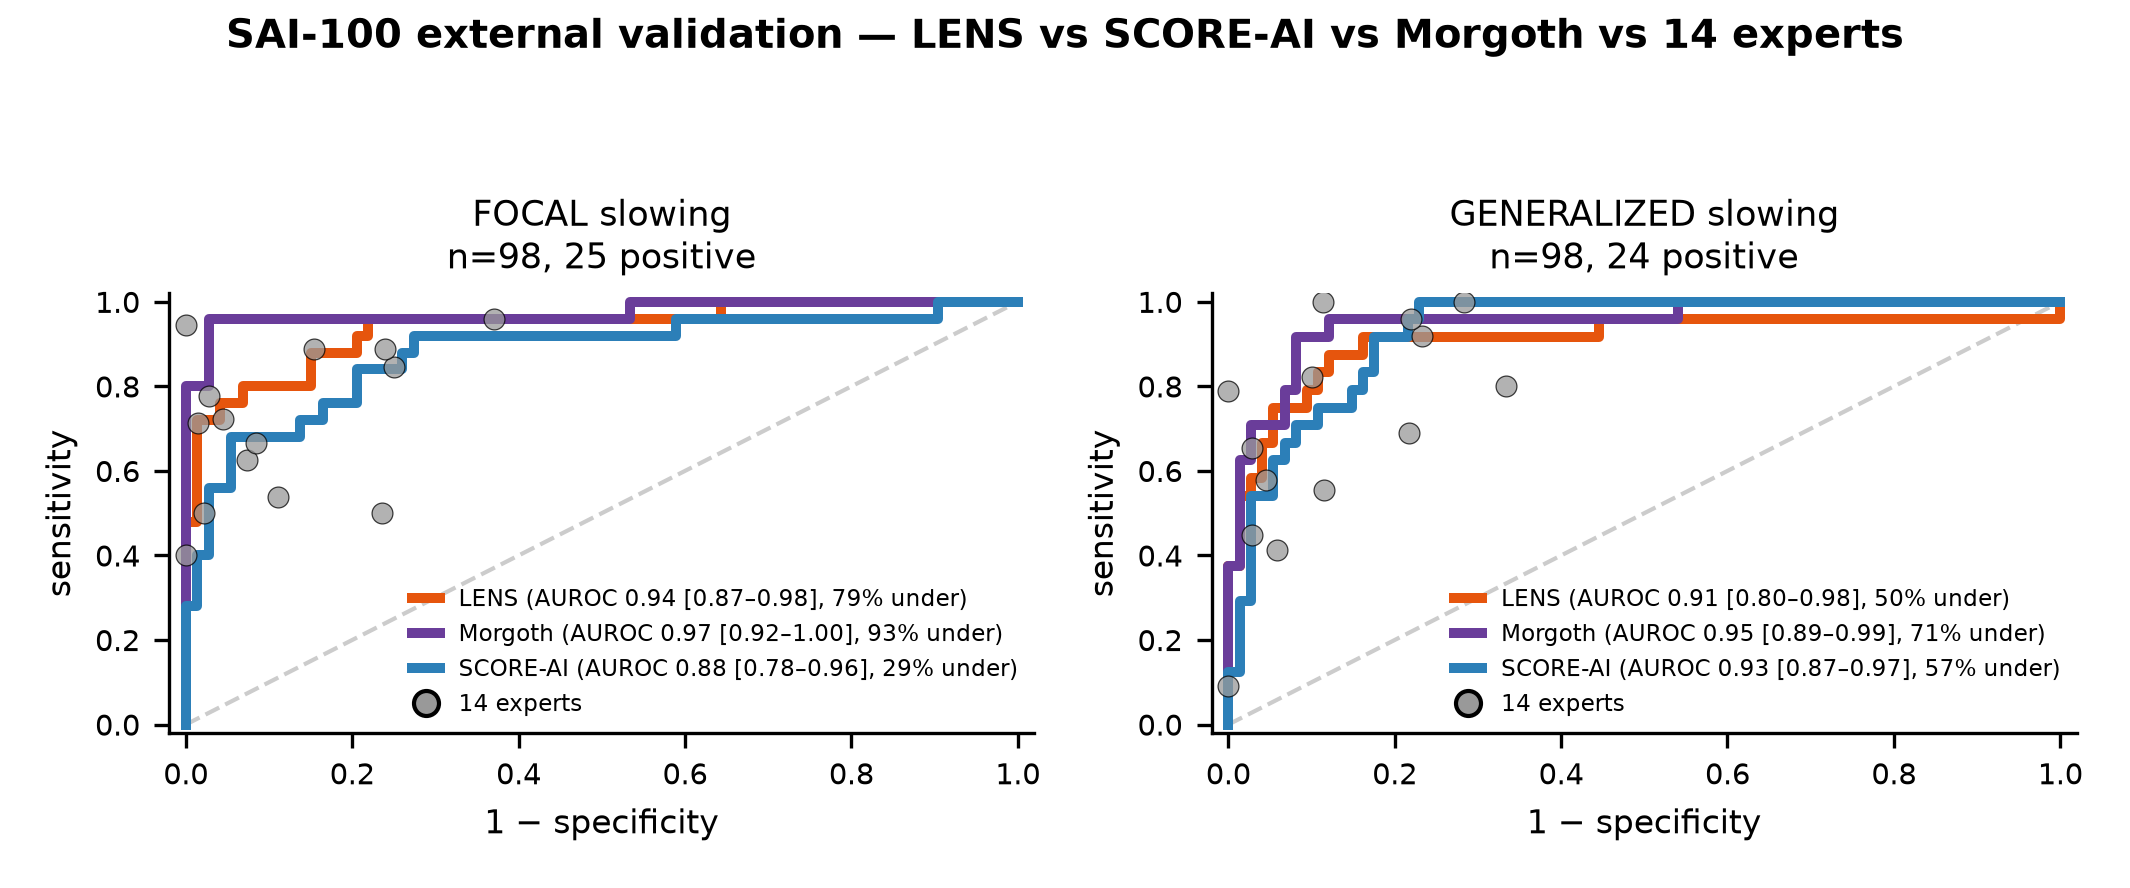
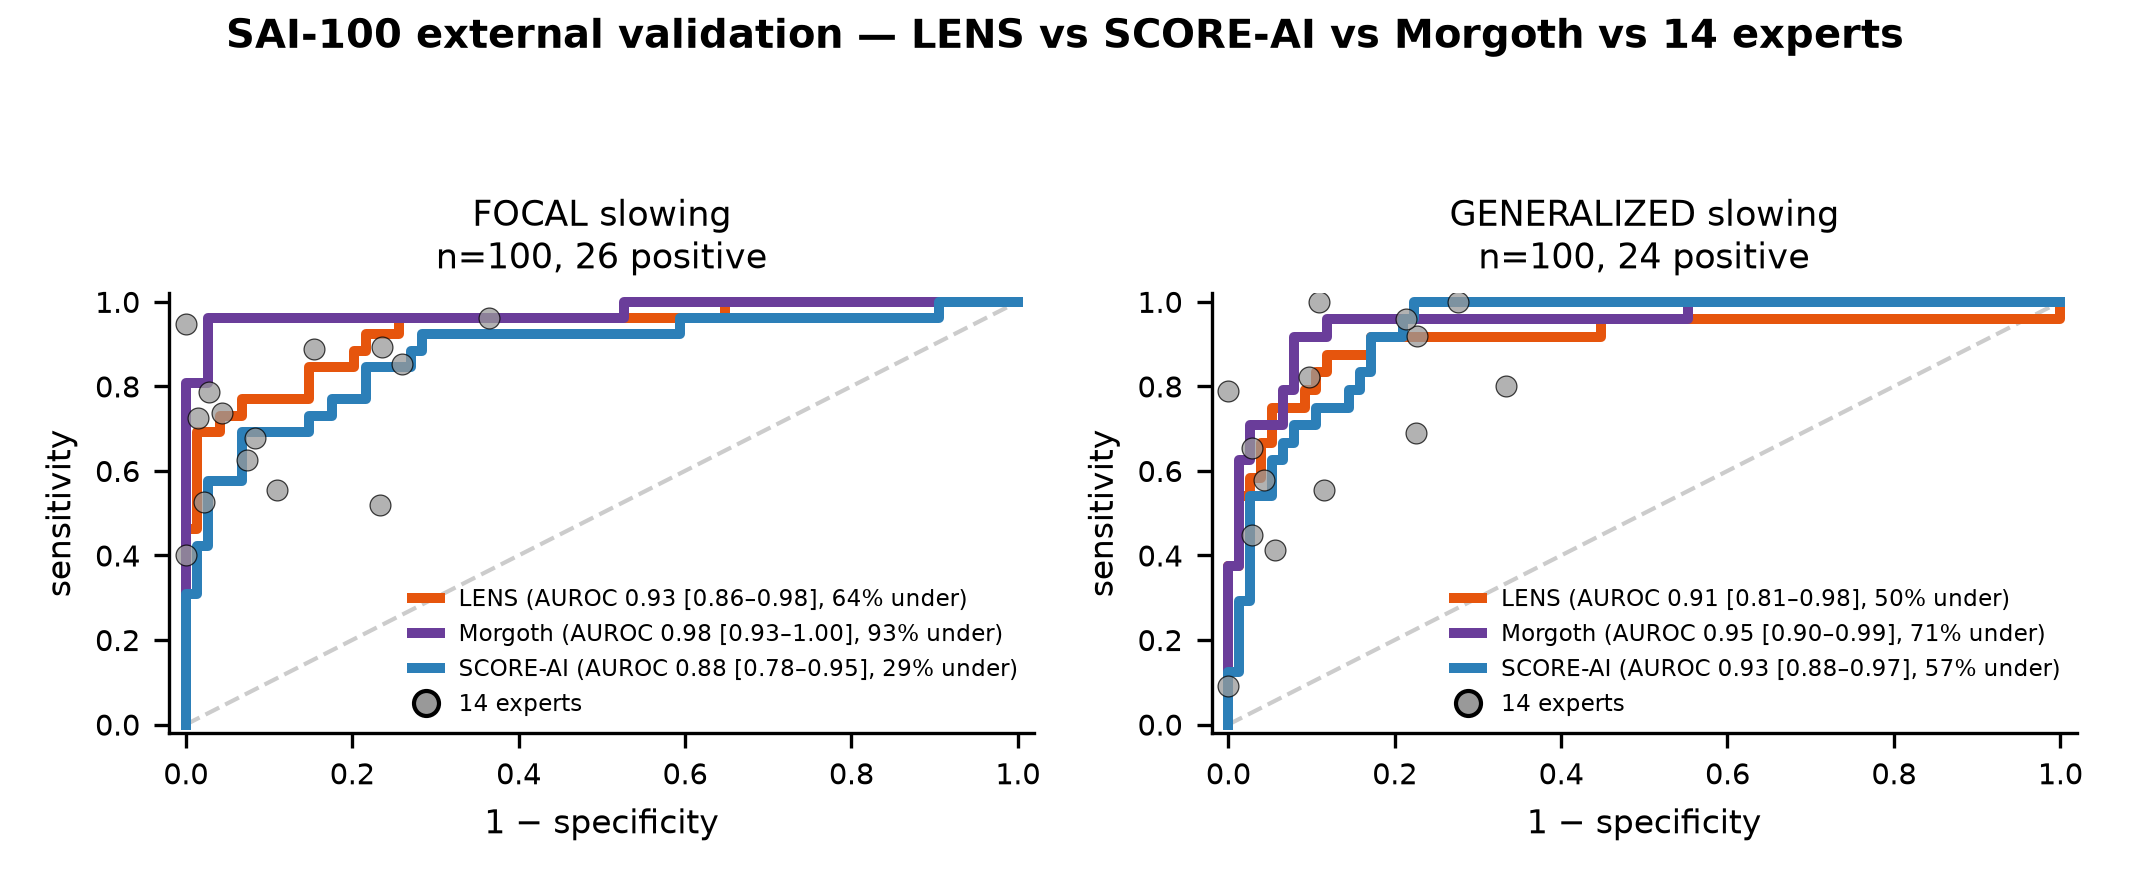
SAI-100 is now n=100: the two "unreadable" EDFs ingest fine
Beniczky re-supplied ID-060 and ID-086 after we reported them as unreadable. They
are not unreadable: both load with our own loader, giving a full 19-channel
montage with 100% finite samples (ID-060 61 min at 256 Hz, ID-086 240 min at
500 Hz), the modern T7/T8/P7/P8 names already being aliased to our canonical set.

The failure was ours, and getting them through took four environmental fixes,
all of the same family as the old SANDOR_DIR Box path:

  * MORGOTH2_DIR defaulted to ~/GithubRepos/morgoth2; the repo is under
    ~/Desktop/GithubRepos, so staging failed as if the checkpoint were missing.
    Now resolved by searching the plausible roots for checkpoints/ss_hm_1.pth.
  * WORK was hardcoded to another session's scratchpad on another machine
    (/private/tmp/claude-501/-Users-mwestover-.../543fcf0f-.../). It happened to
    be writable, so staging failed deep inside the model call rather than at a
    clear missing-path error. Now honours SANDOR_WORK, else local scratch.
  * four morgoth2 dependencies were absent from the venv: tensorboardX, mat73,
    hdf5storage, einops.

Both recordings now stage and featurize (SB_060: 262 segments, age 88;
SB_086: 1028 segments, age 21), giving 100 SB partitions.

Re-running the validation on all 100 moves the numbers, and not all in our
favour. Focal LENS falls from 0.938 [0.870, 0.985] to 0.930 [0.862, 0.979], and
the experts-under-curve statistic from 79% to 64% -- one of the two new
[…]

diff --git a/scripts/sandor100_stage_extract.py b/scripts/sandor100_stage_extract.py
@@ -16,7 +16,19 @@ from pathlib import Path
 import numpy as np, pandas as pd
 
 # --- Morgoth env (must be set BEFORE importing fleet.ingest, which reads them at import) ---
-os.environ.setdefault("MORGOTH2_DIR", os.path.expanduser("~/GithubRepos/morgoth2"))
+# The repo lives under ~/Desktop/GithubRepos on this machine; the old default pointed at
+# ~/GithubRepos/morgoth2, which does not exist, so staging failed with a missing-checkpoint error that
+# looked like the model was unavailable rather than mislocated. Search the plausible roots.
+def _morgoth_dir():
+    from pathlib import Path as _P
+    for c in (_P.home() / "Desktop/GithubRepos/morgoth2", _P.home() / "GithubRepos/morgoth2",
+              _P("../morgoth2").resolve()):
+        if (c / "checkpoints" / "ss_hm_1.pth").exists():
+            return str(c)
+    return str(_P.home() / "GithubRepos/morgoth2")
+
+
+os.environ.setdefault("MORGOTH2_DIR", _morgoth_dir())
 os.environ.setdefault("PILOT_VENV", sys.executable)
 os.environ.setdefault("MORGOTH_DEVICE", "mps")
 os.environ.setdefault("MORGOTH_SHIMS", os.path.abspath("scripts/shims"))
@@ -66,8 +78,11 @@ SB_DIR = Path(os.environ.get("SANDOR_DIR") or
               _resolve_sandor_dir())
 EDF = SB_DIR / "EDF"
 SM = Path("data/derived/segment_master")
-WORK = Path("/private/tmp/claude-501/-Users-mwestover-GithubRepos-morgoth-slowing-growth-curves/"
-            "543fcf0f-2e91-44f4-9ca9-c301964982e6/scratchpad/sandor100/work")
+# Scratch space for the Morgoth staging hand-off. This was hardcoded to one session's scratchpad on another
+# machine ("/private/tmp/claude-501/-Users-mwestover-.../543fcf0f-.../scratchpad/sandor100/work"), which is
+# the same defect as the old SANDOR_DIR default: it happens to be writable, so staging fails deep inside the
+# model call rather than at a clear "path does not exist". Honour SANDOR_WORK, else use a local scratch dir.
+WORK = Path(os.environ.get("SANDOR_WORK") or (Path(tempfile.gettempdir()) / "sandor100_work"))
 
 
 def stage_one(eid, data, chs, fs, n_seg, centers):

diff --git a/docs/manuscript_draft.md b/docs/manuscript_draft.md
@@ -202,9 +202,9 @@ A single model trained on report data (patient-stratified, \~16k recordings) whe
 
 ### 3.4b Detection --- external validation on SAI-100 (SCORE-AI and 14 experts)
 
-The **second external benchmark, SAI-100**, tests transfer across countries and to an independent scoring system: 100 routine scalp EEGs from the SCORE-AI validation study \[35\], drawn from three hospitals in two countries, with SCORE-AI, the Morgoth gate and 14 expert calls available per recording and no overlap with training or ON-100. The unchanged pipeline ran end-to-end on 98/100 (**Supplementary S17**).
+The **second external benchmark, SAI-100**, tests transfer across countries and to an independent scoring system: 100 routine scalp EEGs from the SCORE-AI validation study \[35\], drawn from three hospitals in two countries, with SCORE-AI, the Morgoth gate and 14 expert calls available per recording and no overlap with training or ON-100. The unchanged pipeline ran end-to-end on all **100** recordings (**Supplementary S17**).
 
-Focal slowing is detected well by all three learned methods (**Figure 3**). LENS reached AUROC **0.938** \[0.870, 0.985\], placing 79% of the individual experts under its ROC curve, against SCORE-AI --- a purpose-built EEG classifier --- at 0.878 \[0.783, 0.955\] (29% under) and the Morgoth foundation-model gate at 0.974 \[0.923, 1.000\] (93% under). For generalized slowing LENS reached 0.908 \[0.803, 0.980\] with 50% of experts under, against SCORE-AI 0.930 \[0.874, 0.971\] (57%) and Morgoth 0.951 \[0.892, 0.991\] (71%). **On this cohort none of these differences is statistically supported.** A paired bootstrap --- the same 4,000 recording-level resamples scoring both models, so the interval is on the difference itself --- puts every comparison's 95% interval across zero: focal LENS − SCORE-AI +0.061 \[−0.036, +0.160\] (p = 0.23), focal LENS − Morgoth −0.037 \[−0.107, +0.024\], generalized LENS − SCORE-AI −0.020 \[−0.122, +0.062\], generalized LENS − Morgoth −0.042 \[−0.151, +0.041\]. With 98 recordings and 25 focal / 24 generalized positives the study is not powered to separate three detectors of this quality, and we therefore claim only that LENS performs comparably to a dedicated EEG classifier and to a foundation-model gate on an unseen cohort, in two countries, with no site-specific refitting. We state the intervals plainly because they bound the claim: on this second external dataset LENS reaches expert-level detection on both axes, but the cohort cannot rank it against SCORE-AI or the gate in either direction. Read together with ON-100, where LENS led on generalized and was level with the gate on focal, the honest summary is that detection transfers to both external datasets while the *ordering* among the three methods is resolved only on ON-100, which is five times larger. Taken together, the two external validations --- **ON-100** (five US centers, 18 experts) and **SAI-100** (three hospitals across two countries, 14 experts, plus SCORE-AI) --- show LENS matching human experts on both axes across institutions, countries, and scoring systems, with no site-specific refitting.
+Focal slowing is detected well by all three learned methods (**Figure 3**). LENS reached AUROC **0.930** \[0.862, 0.979\], placing 64% of the individual experts under its ROC curve, against SCORE-AI --- a purpose-built EEG classifier --- at 0.878 \[0.784, 0.953\] (29% under) and the Morgoth foundation-model gate at 0.976 \[0.928, 1.000\] (93% under). For generalized slowing LENS reached 0.908 \[0.806, 0.979\] with 50% of experts under, against SCORE-AI 0.931 \[0.878, 0.973\] (57%) and Morgoth 0.951 \[0.897, 0.991\] (71%). **On this cohort none of these differences is statistically supported.** A paired bootstrap --- the same 4,000 recording-level resamples scoring both models, so the interval is on the difference itself --- puts every comparison's 95% interval across zero: focal LENS − SCORE-AI +0.052 \[−0.049, +0.156\] (p = 0.30), focal LENS − Morgoth −0.046 \[−0.116, +0.017\], generalized LENS − SCORE-AI −0.022 \[−0.124, +0.061\], generalized LENS − Morgoth −0.042 \[−0.157, +0.040\]. With 100 recordings and 26 focal / 24 generalized positives the study is not powered to separate three detectors of this quality, and we therefore claim only that LENS performs comparably to a dedicated EEG classifier and to a foundation-model gate on an unseen cohort, in two countries, with no site-specific refitting. We state the intervals plainly because they bound the claim: on this second external dataset LENS reaches expert-level detection on both axes, but the cohort cannot rank it against SCORE-AI or the gate in either direction. Read together with ON-100, where LENS led on generalized and was level with the gate on focal, the honest summary is that detection transfers to both external datasets while the *ordering* among the three methods is resolved only on ON-100, which is five times larger. Taken together, the two external validations --- **ON-100** (five US centers, 18 experts) and **SAI-100** (three hospitals across two countries, 14 experts, plus SCORE-AI) --- show LENS matching human experts on both axes across institutions, countries, and scoring systems, with no site-specific refitting.
 
 **The detector reads the deviation field, not the patient's age.** Abnormal recordings are on average
 17 years older than clean-normals, and chronological age is a feature in both heads, so a classifier could

diff --git a/docs/sandor_reply_2.md b/docs/sandor_reply_2.md
@@ -1,0 +1,58 @@
+# Draft reply to Sándor Beniczky (2)
+
+*Subject: RE: Slowing paper — the two EDFs, and the nomogram idea*
+
+---
+
+Dear Sandor,
+
+Thank you for the files and for checking them so carefully — and for the nomogram suggestion, which I want to
+take seriously below.
+
+**The two recordings.** Both read cleanly with our loader: ID-060 gives 61 minutes at 256 Hz and ID-086 four
+hours at 500 Hz, and after mapping the modern electrode names (T7/T8/P7/P8) onto our canonical set both yield
+a full 19-channel montage with no missing data. You were right that there is nothing wrong with them. The
+fault was ours: the failure was on our side of the pipeline, not in your export, and I am sorry we reported
+it to you as "unreadable". Your note about ID-060 was still useful — the non-scalp channels are exactly the
+kind of thing that would have degraded the read had we not restricted to the scalp array, and we do drop them
+automatically. We are re-running the full pipeline on both now and will report SAI-100 on all 100 recordings
+in the revision.
+
+**On the nomogram.** I like the idea a great deal, and your reasoning about the reception of AI papers matches
+what we have been hearing too. But I should be straightforward about a limitation rather than let it look
+easy: **the present paper does not measure the posterior dominant rhythm.** Our features are band powers and
+ratios — delta, theta, relative delta, delta/alpha, theta/alpha, and relative alpha — scored per 15-second
+segment against age- and sleep-stage-matched norms. No frequency is estimated anywhere in the pipeline. The
+PDR appears in the manuscript only as motivation for why an age reference is needed at all.
+
+So a calculator of the form "enter age, get the lower limit of normal PDR frequency" is not something we could
+put behind the current results without building a PDR estimator first, and that is genuinely its own piece of
+work: the dominant-frequency measures we do have are computed over 1–45 Hz, so in a slow recording they land
+on the delta peak rather than the alpha rhythm, which is precisely where a clinician would want the answer to
+be trustworthy. It would need eyes-closed wake detection, occipital restriction, an alpha-constrained peak
+with a reactivity check, and validation against reported PDR frequencies. Lodder and van Putten, and
+Zibrandtsen and Kjaer, each wrote a paper on that problem alone — the ones you sent us, which we have now
+cited. We also report in the Limitations that our attempt to recover the *stated* frequency of slowing from
+the spectrum failed (rho = 0.13), so we would be adding an unvalidated frequency measure to a paper whose
+discipline has been to claim only what it demonstrates.
+
+What we *could* offer in this paper, and what I think would carry much of the clinical usefulness you are
+after, is a calculator over the quantities we have actually validated: enter age and sleep stage, and get the
+normal range for the deviation features, or enter a recording's values and get its centile and how many SD it
+sits from the age- and stage-matched norm. That is exactly what the model already does per segment, it is
+calibrated on held-out data (median centile error 1.1 points internally), and it needs no new estimator. It
+would also be the first such tool that is sleep-stage-resolved, which is the gap in the existing PDR
+literature.
+
+The PDR nomogram itself I would rather do properly as the next paper, using the same normative machinery, and
+I would very much like to do it with you if you are interested.
+
+**On the target journal.** Point taken about *Neurology* or *Epilepsia*. I would want to see the revision
+settle first — the paired comparisons on SAI-100 turned out not to support the ranking claims we had made, so
+the paper is more careful now than it was — but if the age analyses hold up as they have, I agree it is worth
+aiming higher.
+
+Thank you again, both for the data and for pushing on this.
+
+Best wishes,
+Brandon

diff --git a/results/sandor/sandor100_external.md b/results/sandor/sandor100_external.md
@@ -1,15 +1,15 @@
 # SAI-100 (SCORE-AI validation set) — external validation: LENS vs SCORE-AI vs Morgoth vs experts
 
-Full pipeline (extraction → **Morgoth ss_hm_1 sleep staging** → age+stage-matched deviation → the report-trained LENS detectors) run UNCHANGED on 98/100 external EMU EEGs. Ground truth = expert majority; SCORE-AI (`S_pred`) and the Morgoth gate (`M_pred`) and the individual experts are pre-joined in Sandor_100/Morgoth_results/. Recording-level bootstrap 95% CIs; % experts under the LENS ROC curve.
+Full pipeline (extraction → **Morgoth ss_hm_1 sleep staging** → age+stage-matched deviation → the report-trained LENS detectors) run UNCHANGED on 100/100 external EMU EEGs. Ground truth = expert majority; SCORE-AI (`S_pred`) and the Morgoth gate (`M_pred`) and the individual experts are pre-joined in Sandor_100/Morgoth_results/. Recording-level bootstrap 95% CIs; % experts under the LENS ROC curve.
 
 | axis | model | AUROC [95% CI] | % experts under ROC | AP |
 |---|---|---|---|---|
-| focal (25+) | LENS | 0.938 [0.870, 0.985] | 79% | 0.887 |
-| focal (25+) | Morgoth | 0.974 [0.923, 1.000] | 93% | 0.963 |
-| focal (25+) | SCORE-AI | 0.878 [0.783, 0.955] | 29% | 0.786 |
-| generalized (24+) | LENS | 0.908 [0.803, 0.980] | 50% | 0.846 |
-| generalized (24+) | Morgoth | 0.951 [0.892, 0.991] | 71% | 0.889 |
-| generalized (24+) | SCORE-AI | 0.930 [0.874, 0.971] | 57% | 0.784 |
+| focal (26+) | LENS | 0.930 [0.862, 0.979] | 64% | 0.875 |
+| focal (26+) | Morgoth | 0.976 [0.928, 1.000] | 93% | 0.965 |
+| focal (26+) | SCORE-AI | 0.878 [0.784, 0.953] | 29% | 0.793 |
+| generalized (24+) | LENS | 0.908 [0.806, 0.979] | 50% | 0.845 |
+| generalized (24+) | Morgoth | 0.951 [0.897, 0.991] | 71% | 0.888 |
+| generalized (24+) | SCORE-AI | 0.931 [0.878, 0.973] | 57% | 0.784 |
 
 ## Paired AUROC differences (LENS minus comparator)
 
@@ -17,7 +17,7 @@ Same 4,000 recording-level resamples for both models in each row, so the interva
 
 | axis | comparison | ΔAUROC [95% CI] | p | supported? |
 |---|---|---|---|---|
-| focal | LENS − SCORE-AI | +0.061 [-0.036, +0.160] | 0.228 | no (interval includes 0) |
-| focal | LENS − Morgoth | -0.037 [-0.107, +0.024] | 0.241 | no (interval includes 0) |
-| generalized | LENS − SCORE-AI | -0.020 [-0.122, +0.062] | 0.726 | no (interval includes 0) |
-| generalized | LENS − Morgoth | -0.042 [-0.151, +0.041] | 0.402 | no (interval includes 0) |
+| focal | LENS − SCORE-AI | +0.052 [-0.049, +0.156] | 0.304 | no (interval includes 0) |
+| focal | LENS − Morgoth | -0.046 [-0.116, +0.017] | 0.15 | no (interval includes 0) |
+| generalized | LENS − SCORE-AI | -0.022 [-0.124, +0.061] | 0.685 | no (interval includes 0) |
+| generalized | LENS − Morgoth | -0.042 [-0.157, +0.040] | 0.399 | no (interval includes 0) |

diff --git a/docs/supplementary_material.md b/docs/supplementary_material.md
@@ -126,7 +126,7 @@ Day-to-day clinical EEG reading rests on age norms established decades ago on mo
 
 ### S17. The SAI-100 cohort and pipeline run
 
-The **second external benchmark, SAI-100**, tests whether the same unchanged pipeline also transfers across countries and to an independent scoring system. We ran it on 100 routine scalp EEGs from the SCORE-AI validation study \[35\] --- drawn from three hospitals in two countries (Haukeland University Hospital, the Danish Epilepsy Centre, and Mayo Clinic), with no overlap with training or with ON-100 --- for which SCORE-AI (a published automated EEG-interpretation system), the Morgoth gate, and 14 individual expert calls per recording are available. The full pipeline (feature extraction, Morgoth sleep staging, age- and stage-matched deviation, and the report-trained detectors) ran end-to-end on 98/100 recordings (2 EDFs were unreadable). Ground truth is the expert-vote majority recomputed from the 14 individual expert ratings. The intermediate results workbook we received carries a single summary column that reproduces the focal *interictal epileptiform* consensus rather than the focal non-epileptiform one, so it is not used; the source data release itself is internally consistent (its focal non-epileptiform consensus agrees with the individual ratings on all 100 recordings).
+The **second external benchmark, SAI-100**, tests whether the same unchanged pipeline also transfers across countries and to an independent scoring system. We ran it on 100 routine scalp EEGs from the SCORE-AI validation study \[35\] --- drawn from three hospitals in two countries (Haukeland University Hospital, the Danish Epilepsy Centre, and Mayo Clinic), with no overlap with training or with ON-100 --- for which SCORE-AI (a published automated EEG-interpretation system), the Morgoth gate, and 14 individual expert calls per recording are available. The full pipeline (feature extraction, Morgoth sleep staging, age- and stage-matched deviation, and the report-trained detectors) ran end-to-end on all 100 recordings. Two recordings initially failed to ingest on our side and were re-supplied by the originating centre; the failure was environmental rather than a property of the exports, both of which read cleanly. Ground truth is the expert-vote majority recomputed from the 14 individual expert ratings. The intermediate results workbook we received carries a single summary column that reproduces the focal *interictal epileptiform* consensus rather than the focal non-epileptiform one, so it is not used; the source data release itself is internally consistent (its focal non-epileptiform consensus agrees with the individual ratings on all 100 recordings).
 
 
 ### S18. Cohort construction and inclusion
